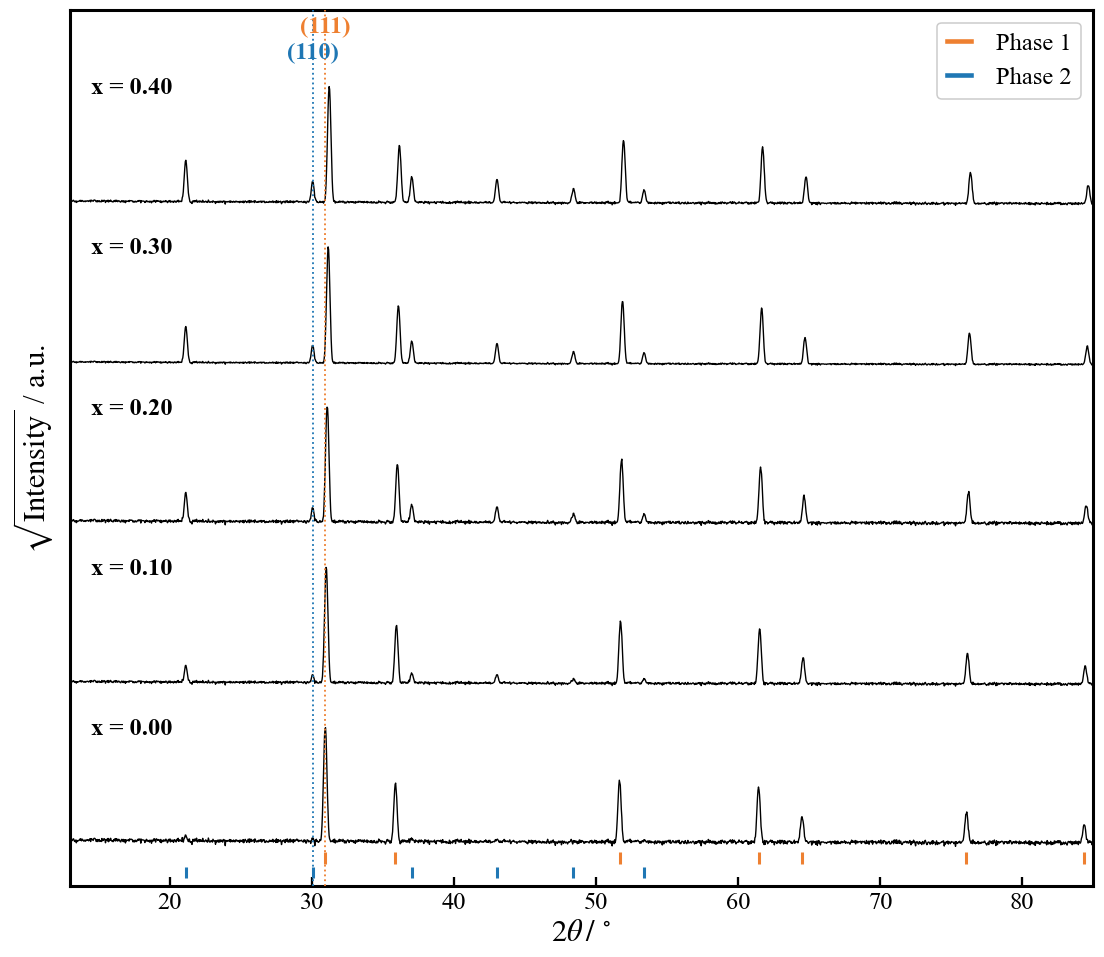
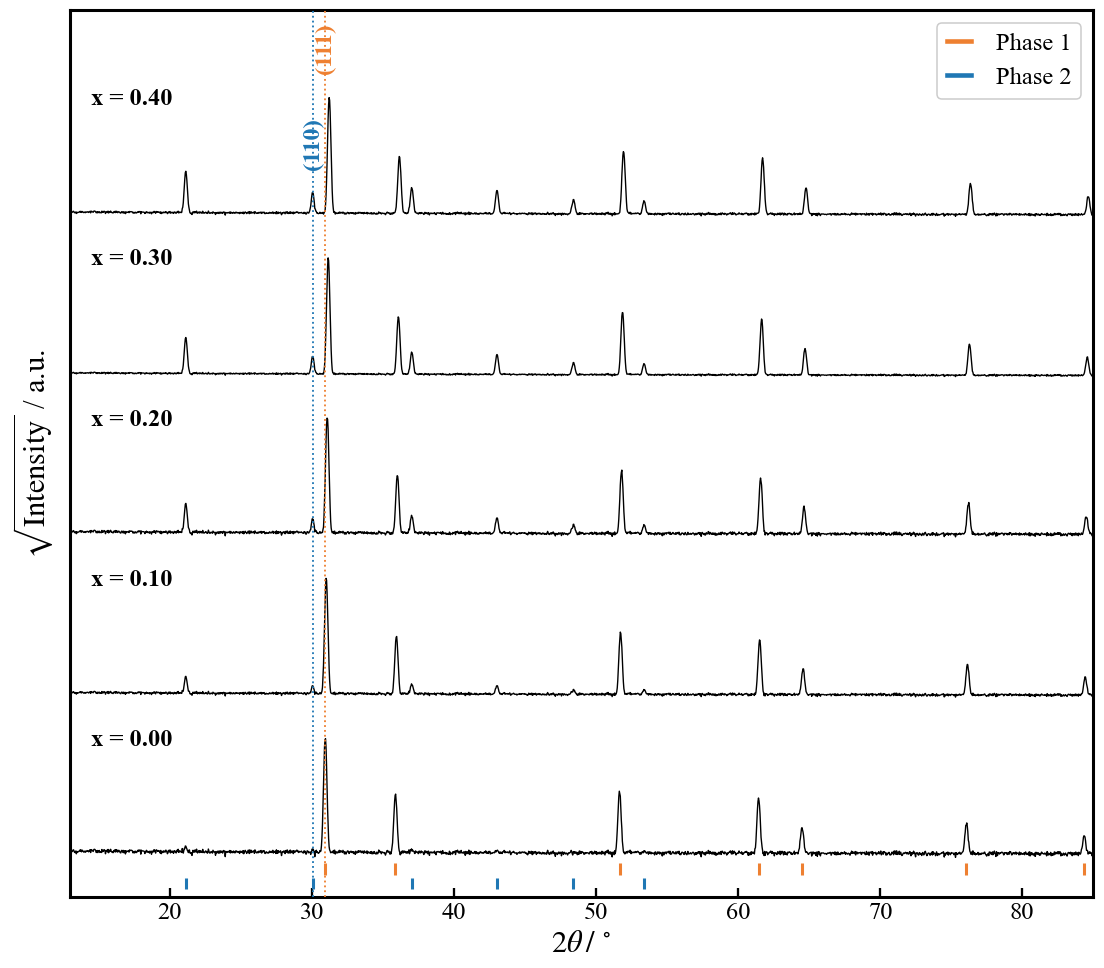
Stand the guide names on end by default
Written across, a Miller index covers a few degrees of the axis and reaches
its neighbours, so any group of reflections close enough to be worth marking
together turns into a staircase of names climbing away from the peaks they
belong to. On end the same name is about as wide as one line of text is
tall, and the group stands side by side, each name over its own peak. That
is the case the naming exists for, so it is the one that ships.

Across stays a control, for a figure with few enough reflections that the
names do not reach each other. The example figure and its alt text now show
the shipped angle, and the example passes the clearance and the angle
explicitly like every other setting it draws with.

diff --git a/test_make_series.py b/test_make_series.py
@@ -28,7 +28,8 @@ def shipped_defaults(monkeypatch):
     """
     for name, value in (("GUIDE_LINES", []), ("GUIDE_LABELS", []),
                         ("GUIDE_LABEL_WEIGHT", "bold"),
-                        ("GUIDE_LABEL_HEIGHT", 0.20), ("LABEL_X", None),
+                        ("GUIDE_LABEL_HEIGHT", 0.20),
+                        ("GUIDE_LABEL_ROTATION", 90), ("LABEL_X", None),
                         ("LABEL_WEIGHT", "normal"), ("USE_SQRT", True),
                         ("PLOT_X_MIN", None), ("PLOT_X_MAX", None),
                         ("LABEL_HEIGHT", 0.90), ("SHOW_TICKS", True),
@@ -1034,7 +1035,7 @@ def test_a_turned_name_covers_far_less_of_the_axis(series):
     traces, phases, _colors = ms.load_series(
             no_labels("s1.csv"), series, pd.DataFrame())
     flat = ms.plot_series(traces, phases, guide_lines=[20.2],
-                          guide_labels=["(889)"])
+                          guide_labels=["(889)"], guide_label_rotation=0)
     turned = ms.plot_series(traces, phases, guide_lines=[20.2],
                             guide_labels=["(889)"], guide_label_rotation=90)
     wide = label_width_in_degrees(flat, guide_names(flat.axes[0])[0])
@@ -1058,7 +1059,8 @@ def test_two_names_that_collide_upright_stand_side_by_side_turned(tmp_path):
             no_labels("two.csv"), folder, pd.DataFrame())
     upright = ms.plot_series(traces, phases, colors=colors,
                              guide_lines=[20.0, 21.5],
-                             guide_labels=["(889)", "(123)"])
+                             guide_labels=["(889)", "(123)"],
+                             guide_label_rotation=0)
     turned = ms.plot_series(traces, phases, colors=colors,
                             guide_lines=[20.0, 21.5],
                             guide_labels=["(889)", "(123)"],
@@ -1080,14 +1082,21 @@ def test_two_names_that_collide_upright_stand_side_by_side_turned(tmp_path):
     plt_close(turned)
 
 
-def test_the_turn_falls_back_to_its_setting(series, monkeypatch):
-    monkeypatch.setattr(ms, "GUIDE_LABEL_ROTATION", 90)
+def test_a_name_stands_on_end_unless_the_setting_says_otherwise(series,
+                                                                monkeypatch):
+    """The shipped angle, and that turning it back reaches the figure."""
     traces, phases, _colors = ms.load_series(
             no_labels("s1.csv"), series, pd.DataFrame())
-    fig = ms.plot_series(traces, phases, guide_lines=[20.2],
-                         guide_labels=["(110)"])
-    assert guide_names(fig.axes[0])[0].get_rotation() == pytest.approx(90.0)
-    plt_close(fig)
+    shipped = ms.plot_series(traces, phases, guide_lines=[20.2],
+                             guide_labels=["(110)"])
+    assert guide_names(shipped.axes[0])[0].get_rotation() == pytest.approx(
+        90.0)
+    monkeypatch.setattr(ms, "GUIDE_LABEL_ROTATION", 0)
+    across = ms.plot_series(traces, phases, guide_lines=[20.2],
+                            guide_labels=["(110)"])
+    assert guide_names(across.axes[0])[0].get_rotation() == pytest.approx(0.0)
+    plt_close(shipped)
+    plt_close(across)
 
 
 def test_a_taller_peak_under_the_name_lifts_it(tmp_path):
@@ -1096,6 +1105,7 @@ def test_a_taller_peak_under_the_name_lifts_it(tmp_path):
     A name is about two degrees wide on a forty degree axis. Measured at its
     own reflection alone, it would clear that peak and land on the taller
     one beside it, which is what a reader sees as a name stuck to a peak.
+    Written across, since that is the width that reaches the neighbour.
     """
     folder = tmp_path / "data"
     folder.mkdir()
@@ -1112,7 +1122,8 @@ def test_a_taller_peak_under_the_name_lifts_it(tmp_path):
     traces, phases, _colors = ms.load_series(
             no_labels("pair.csv"), folder, pd.DataFrame())
     fig = ms.plot_series(traces, phases, guide_lines=[20.0],
-                         guide_labels=["(110)"], guide_label_height=0.10)
+                         guide_labels=["(110)"], guide_label_height=0.10,
+                         guide_label_rotation=0)
     ax = fig.axes[0]
     # The tall peak reaches 1.0, since stack() normalises the trace to it.
     assert guide_names(ax)[0].get_position()[1] == pytest.approx(1.10)

diff --git a/make_series.py b/make_series.py
@@ -209,18 +209,20 @@ GUIDE_LABEL_WEIGHT = "bold"
 # This is the clearance each name gets, not one height for all of them.
 GUIDE_LABEL_HEIGHT = 0.20
 
-# Angle of the names, in degrees anticlockwise from upright. 0 writes them
-# across, 90 on end, reading upwards from just above the peak.
+# Angle of the names, in degrees anticlockwise from upright. 90 writes them
+# on end, reading upwards from just above the peak; 0 writes them across.
 #
 # It is the one setting that decides whether crowded names can be read at
-# all. Upright, a Miller index covers some two degrees of a seventy degree
-# axis and reaches its neighbours, so a group of reflections close together
-# ends up as a staircase of names climbing away from the peaks they belong
-# to. On end the same name covers about the width of one line of text, and
-# the same group stands side by side, each over its own peak. Nothing else
-# changes: the names are measured as they are drawn, so the clearance and
-# the lifting follow the turn on their own.
-GUIDE_LABEL_ROTATION = 0
+# all, which is why it ships on end. Across, a Miller index covers some two
+# degrees of a seventy degree axis and reaches its neighbours, so a group of
+# reflections close together ends up as a staircase of names climbing away
+# from the peaks they belong to. On end the same name covers about the width
+# of one line of text, and the same group stands side by side, each over its
+# own peak. Turn it back to 0 for a figure with a handful of well separated
+# reflections, where a name read across is the easier of the two. Nothing
+# else changes: the names are measured as they are drawn, so the clearance
+# and the lifting follow the turn on their own.
+GUIDE_LABEL_ROTATION = 90
 
 # --- Where the files are ------------------------------------------------
 DATA_FOLDER = Path("data")

diff --git a/docs/make_examples.py b/docs/make_examples.py
@@ -200,6 +200,8 @@ def main():
                              guide_labels=[hkl_label((1, 1, 1)),
                                            hkl_label((1, 1, 0))],
                              guide_label_weight="bold",
+                             guide_label_height=0.20,
+                             guide_label_rotation=90,
                              guide_snap=0.3,
                              guide_style=":", guide_width=1.2,
                              linewidth=0.9, use_sqrt=True,

diff --git a/docs/series.md b/docs/series.md
@@ -6,7 +6,7 @@ this figure answers a different question from the per-sample ones. Which
 reflection appears, moves or goes away across the series is hard to read
 from a pile of separate figures and easy to read from one stack.
 
-![Five diffraction patterns stacked one above another on a square-root intensity axis, each labelled at its left with a composition, one row of orange and one of blue reflection ticks below the lowest pattern, and two dotted vertical guides rising through the stack in the colour of the phase that owns the reflection they mark, each named with its Miller index over its own peak on the top pattern, the taller peak carrying its name higher.](example_series.png)
+![Five diffraction patterns stacked one above another on a square-root intensity axis, each labelled at its left with a composition, one row of orange and one of blue reflection ticks below the lowest pattern, and two dotted vertical guides rising through the stack in the colour of the phase that owns the reflection they mark, each named with its Miller index standing on end over its own peak on the top pattern, the taller peak carrying its name higher.](example_series.png)
 
 Drawn from an invented pattern with two phases named `Phase 1` and `Phase 2`
 by [`make_examples.py`](make_examples.py), so it shows the layout and no
@@ -78,7 +78,7 @@ Widths are in points, matplotlib's own unit for a line.
 | guides 2θ, after `=` | `GUIDE_LABELS` | none | The name written over each guide, one per `GUIDE_LINES` value and in the same order. In section 5 the two are typed as one entry, `30.95=(111)`. Drawn over its own peak on the topmost pattern, in the colour of the phase the guide landed on |
 | name weight | `GUIDE_LABEL_WEIGHT` | `bold` | Weight of those names: `normal`, `medium`, `semibold` or `bold`. Its own control rather than `LABEL_WEIGHT`, since a name sits over a peak and in the open, while a trace label lies across a whole pattern |
 | name clearance | `GUIDE_LABEL_HEIGHT` | `0.20` | The room each name keeps over the pattern beneath it, in trace heights, measured over the whole width the name covers and not at the one angle its guide sits at. `0.0` rests a name on what it stands over. It is a clearance and not a height: the names sit at as many heights as the pattern under them has |
-| name angle | `GUIDE_LABEL_ROTATION` | `0` | `0` writes the names across, `90` on end. Across, a Miller index covers a few degrees of the axis and reaches its neighbours, so a crowded group of reflections becomes a staircase of names climbing away from their peaks. On end the same name covers about the width of one line of text, and the same group stands side by side, each on its own peak |
+| name angle | `GUIDE_LABEL_ROTATION` | `90` | `90` stands the names on end, reading upwards; `0` writes them across. Across, a Miller index covers a few degrees of the axis and reaches its neighbours, so a crowded group of reflections becomes a staircase of names climbing away from their peaks. On end the same name covers about the width of one line of text, and the same group stands side by side, each on its own peak, which is why it ships that way. Turn it back to `0` for a figure with a handful of well separated reflections, where a name read across is the easier of the two |
 | guide style | `GUIDE_STYLE` | `:` dotted | `:` dotted, `--` dashed, `-.` dash-dot, `-` solid |
 | guide width | `GUIDE_WIDTH` | `1.2` | Width of a guide. Past the width of the traces it crosses, a guide hides the peak it points at |
 | (not a control) | `GUIDE_SNAP` | `0.3` | How far a typed guide may sit from a reflection and still snap to it, in degrees |
@@ -140,10 +140,13 @@ the position, separated by `=`, so the two cannot fall out of step:
 
 The name is written over its own peak on the topmost pattern, centred on its
 guide and in the colour of the phase the guide landed on, so nothing has to
-be added to the legend to explain it. It is drawn exactly as typed, which is
-how an overbar is written: `30.95=$(\bar{1}11)$` uses the same STIX maths as
-the axis labels. An entry with no `=` is an unnamed guide, as before, and an
-entry that cannot be read is reported and left out.
+be added to the legend to explain it. It stands on end and reads upwards,
+which is what lets neighbouring reflections keep their names side by side;
+*name angle* writes them across instead, for a figure with few enough
+reflections that they do not reach each other. It is drawn exactly as typed,
+which is how an overbar is written: `30.95=$(\bar{1}11)$` uses the same STIX
+maths as the axis labels. An entry with no `=` is an unnamed guide, as
+before, and an entry that cannot be read is reported and left out.
 
 ### Why the names are not all at one height
 
@@ -165,12 +168,14 @@ figure first.
 
 Lifting is the last resort, and it is worth avoiding rather than tuning: a
 staircase of names climbing away from the peaks they belong to is what a
-reader has to decode. What causes it is width. A name like `(889)` covers
-some two and a half degrees of a forty degree axis when it is written
-across, and about one degree when `GUIDE_LABEL_ROTATION` turns it on end,
-so the same crowded group that has to be stacked one way stands side by side
-the other. Nothing else changes with the turn: the names are measured as
-they are drawn, so the clearance and the lifting follow it on their own.
+reader has to decode. What causes it is width, which is why the names ship
+on end. A name like `(889)` covers some two and a half degrees of a forty
+degree axis when it is written across, and about one degree when it stands
+on end, so the same crowded group that has to be stacked one way stands side
+by side the other. Nothing else changes with the turn: the names are
+measured as they are drawn, so the clearance and the lifting follow it on
+their own. `GUIDE_LABEL_ROTATION = 0` writes them across, which reads more
+easily where the reflections are far enough apart to allow it.
 
 A reflection the topmost trace no longer has puts its name at that trace's
 baseline, low, where the peak is not. In a series drawn because a phase

diff --git a/README.md b/README.md
@@ -142,7 +142,7 @@ Where the sections above draw one sample per figure,
 patterns and the reflection ticks, without the fit or the residual, each
 pattern rescaled to the same height and offset above the one below.
 
-![Five diffraction patterns stacked one above another on a square-root intensity axis, each labelled at its left with a composition, one row of orange and one of blue reflection ticks below the lowest pattern, and two dotted vertical guides rising through the stack in the colour of the phase that owns the reflection they mark, each named with its Miller index over its own peak on the top pattern, the taller peak carrying its name higher.](docs/example_series.png)
+![Five diffraction patterns stacked one above another on a square-root intensity axis, each labelled at its left with a composition, one row of orange and one of blue reflection ticks below the lowest pattern, and two dotted vertical guides rising through the stack in the colour of the phase that owns the reflection they mark, each named with its Miller index standing on end over its own peak on the top pattern, the taller peak carrying its name higher.](docs/example_series.png)
 
 Which samples it holds and in which order comes from the `series_order`
 column of your metadata file, and `series_label` names each trace, so no
